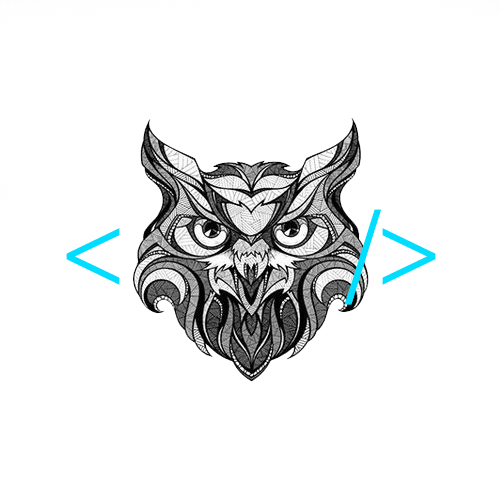
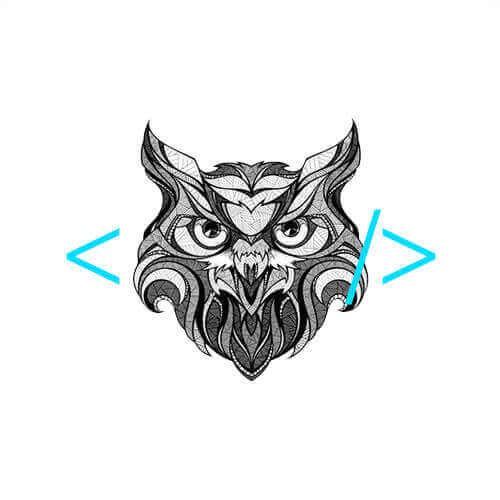
compress img

Changed region(s): [[0.27, 0.24, 0.87, 0.78], [0.12, 0.45, 0.24, 0.57], [0.27, 0.24, 0.3, 0.27]]

diff --git a/dist/index.html b/dist/index.html
@@ -164,32 +164,32 @@
                     <div class="grid galery">
                         <div class="grid__item">
                             <div class="card galery__card">
-                                <img src="./img/img.jpg" class="galery__img"></img>
+                                <img src="./img/img.jpg" class="galery__img" alt="img"></img>
                             </div>
                         </div>
                         <div class="grid__item">
                             <div class="card galery__card">
-                                <img src="./img/img.jpg" class="galery__img"></img>
+                                <img src="./img/img.jpg" class="galery__img" alt="img"></img>
                             </div>
                         </div>
                         <div class="grid__item">
                             <div class="card galery__card">
-                                <img src="./img/img.jpg" class="galery__img"></img>
+                                <img src="./img/img.jpg" class="galery__img" alt="img"></img>
                             </div>
                         </div>
                         <div class="grid__item">
                             <div class="card galery__card">
-                                <img src="./img/img.jpg" class="galery__img"></img>
+                                <img src="./img/img.jpg" class="galery__img" alt="img"></img>
                             </div>
                         </div>
                         <div class="grid__item">
                             <div class="card galery__card">
-                                <img src="./img/img.jpg" class="galery__img"></img>
+                                <img src="./img/img.jpg" class="galery__img" alt="img"></img>
                             </div>
                         </div>
                         <div class="grid__item">
                             <div class="card galery__card">
-                                <img src="./img/img.jpg" class="galery__img"></img>
+                                <img src="./img/img.jpg" class="galery__img" alt="img"></img>
                             </div>
                         </div>
                     </div>
@@ -485,7 +485,7 @@
             <div class="galery__modal-inner">
                 <div class="galery__modal-close"></div>
                 <div class="galery__modal-img">
-                    <img src="./img/img.jpg"></img>
+                    <img src="./img/img.jpg" alt=""></img>
                 </div>
             </div>
         </div>

diff --git a/src/index.html b/src/index.html
@@ -164,32 +164,32 @@
                     <div class="grid galery">
                         <div class="grid__item">
                             <div class="card galery__card">
-                                <img src="./img/img.jpg" class="galery__img"></img>
+                                <img src="./img/img.jpg" class="galery__img" alt="img"></img>
                             </div>
                         </div>
                         <div class="grid__item">
                             <div class="card galery__card">
-                                <img src="./img/img.jpg" class="galery__img"></img>
+                                <img src="./img/img.jpg" class="galery__img" alt="img"></img>
                             </div>
                         </div>
                         <div class="grid__item">
                             <div class="card galery__card">
-                                <img src="./img/img.jpg" class="galery__img"></img>
+                                <img src="./img/img.jpg" class="galery__img" alt="img"></img>
                             </div>
                         </div>
                         <div class="grid__item">
                             <div class="card galery__card">
-                                <img src="./img/img.jpg" class="galery__img"></img>
+                                <img src="./img/img.jpg" class="galery__img" alt="img"></img>
                             </div>
                         </div>
                         <div class="grid__item">
                             <div class="card galery__card">
-                                <img src="./img/img.jpg" class="galery__img"></img>
+                                <img src="./img/img.jpg" class="galery__img" alt="img"></img>
                             </div>
                         </div>
                         <div class="grid__item">
                             <div class="card galery__card">
-                                <img src="./img/img.jpg" class="galery__img"></img>
+                                <img src="./img/img.jpg" class="galery__img" alt="img"></img>
                             </div>
                         </div>
                     </div>
@@ -485,7 +485,7 @@
             <div class="galery__modal-inner">
                 <div class="galery__modal-close"></div>
                 <div class="galery__modal-img">
-                    <img src="./img/img.jpg"></img>
+                    <img src="./img/img.jpg" alt=""></img>
                 </div>
             </div>
         </div>
